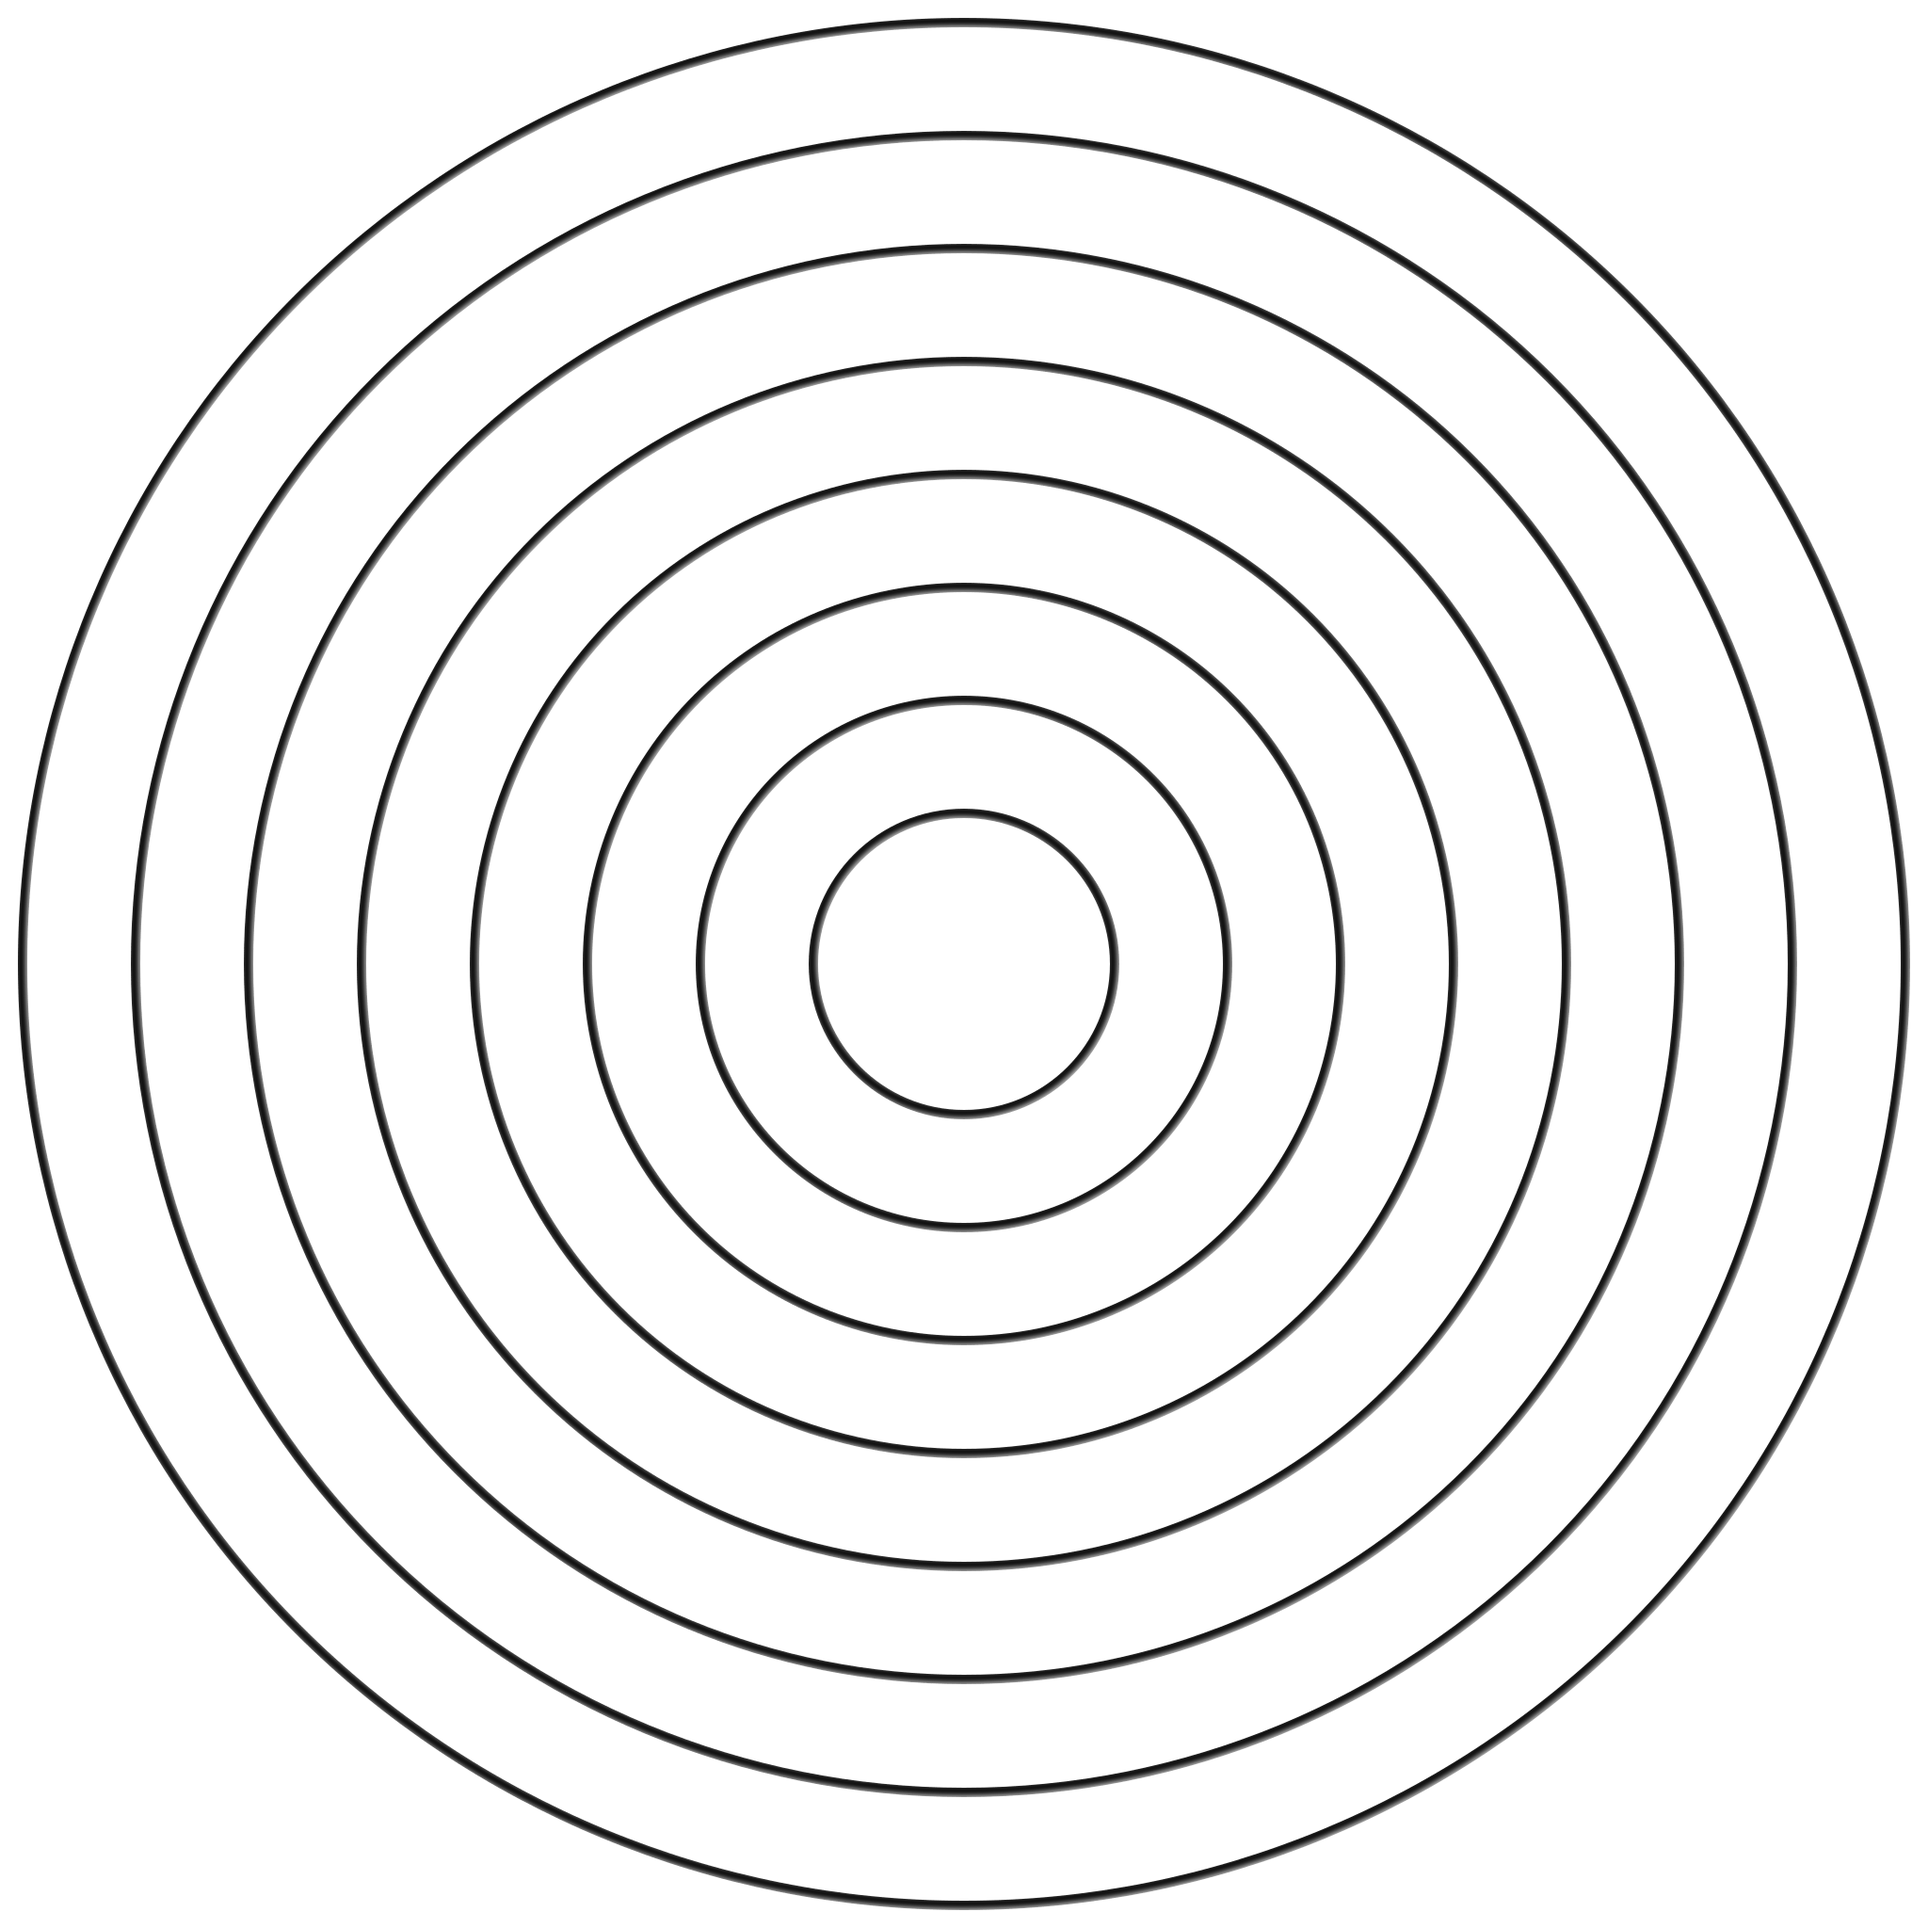
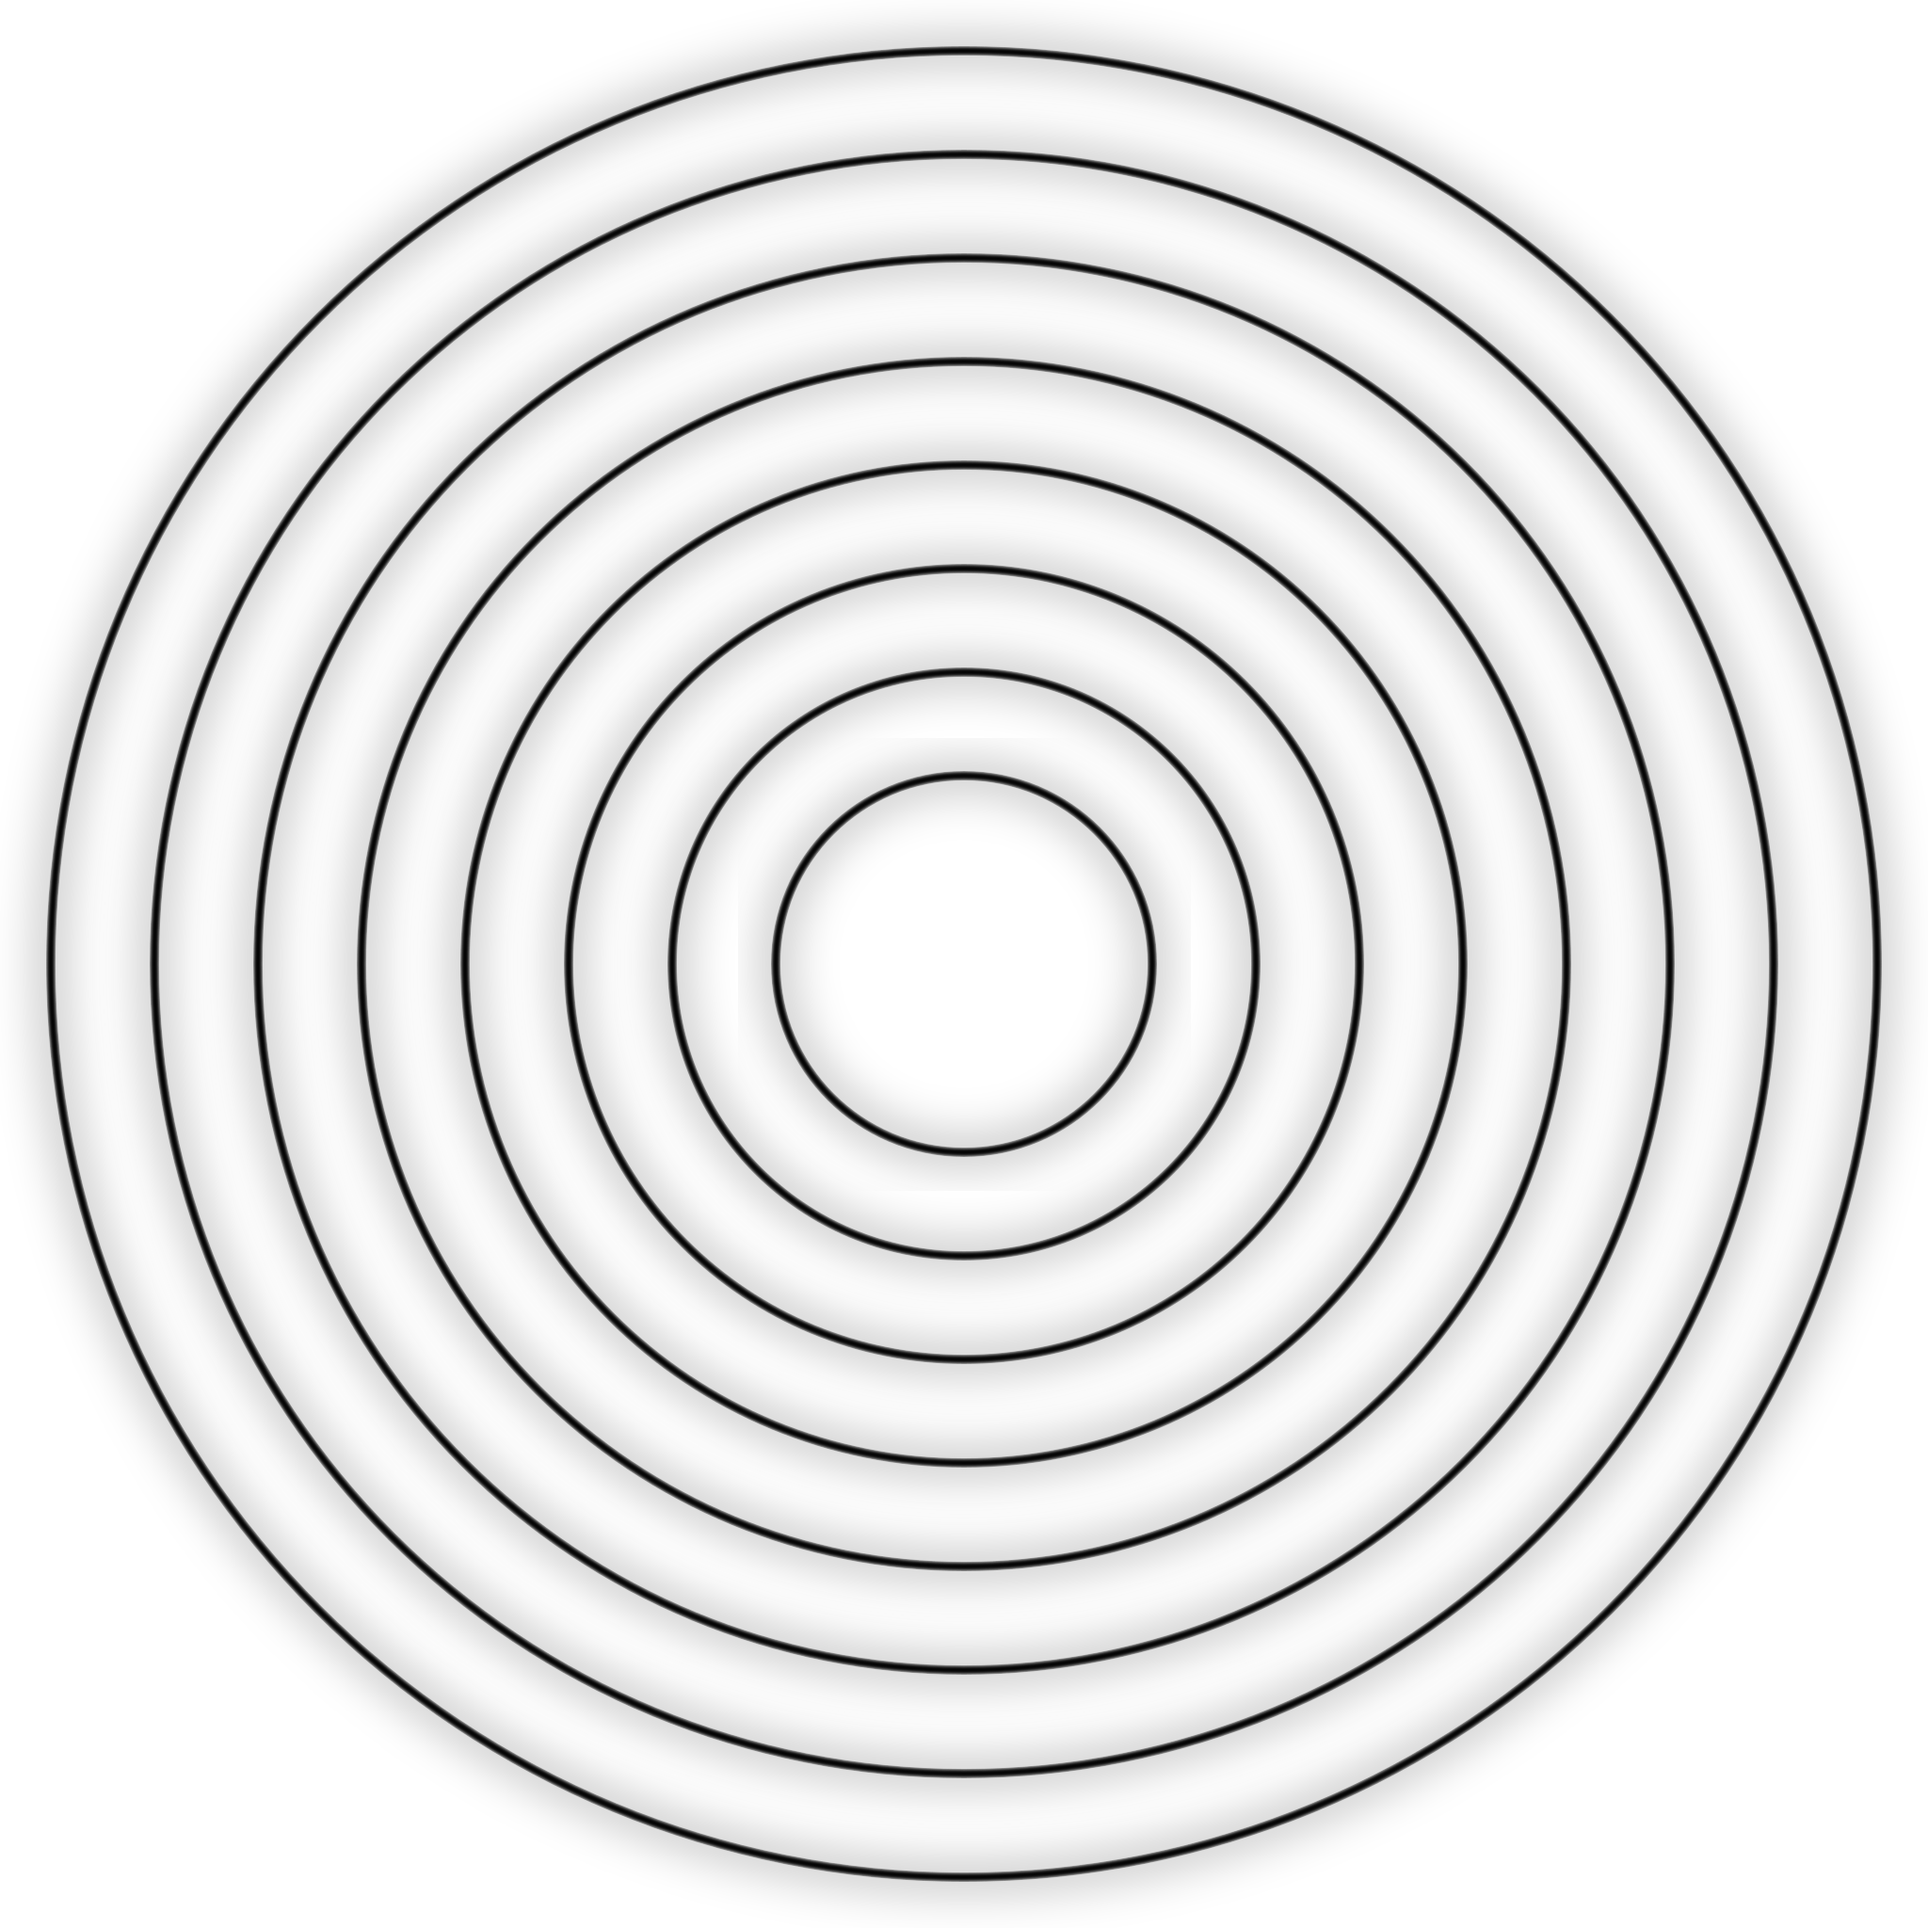
Add the sun

Changed region(s): [[0.0, 0.0, 1.0, 1.0]]

diff --git a/lib/window.cpp b/lib/window.cpp
@@ -4,8 +4,9 @@
 #include <SDL2/SDL.h>
 #include <SDL2/SDL_image.h>
 
-#include "solar-system-clock/orbits.h"
 #include "solar-system-clock/starfield.h"
+#include "solar-system-clock/orbits.h"
+#include "solar-system-clock/sun.h"
 
 #include "solar-system-clock/window.h"
 
@@ -65,6 +66,7 @@ Window::Window(int width, int height) {
 
     m_starfield = new Starfield(m_renderer);
     m_orbits = new Orbits(m_renderer);
+    m_sun = new Sun(m_renderer);
 
     resize(width, height);
 }
@@ -72,6 +74,7 @@ Window::Window(int width, int height) {
 Window::~Window() {
     delete m_starfield;
     delete m_orbits;
+    delete m_sun;
 
     SDL_DestroyRenderer(m_renderer);
     SDL_DestroyWindow(m_window);
@@ -80,6 +83,7 @@ Window::~Window() {
 void Window::resize(int width, int height) {
     m_starfield->resize(width, height);
     m_orbits->resize(width, height);
+    m_sun->resize(width, height);
 }
 
 void Window::mainloop() {
@@ -115,6 +119,7 @@ void Window::mainloop() {
             double dt_seconds = dt / 1000.0;
 
             m_starfield->update(dt_seconds);
+            m_sun->update(dt_seconds);
 
             accumulator -= dt;
             t += dt;
@@ -122,6 +127,7 @@ void Window::mainloop() {
 
         m_starfield->draw();
         m_orbits->draw();
+        m_sun->draw();
 
 		SDL_RenderPresent(m_renderer);
 	}

diff --git a/lib/sun.cpp b/lib/sun.cpp
@@ -1,0 +1,33 @@
+#include <algorithm>
+#include <iostream>
+
+#include <SDL2/SDL.h>
+
+#include "solar-system-clock/texture.h"
+
+#include "solar-system-clock/sun.h"
+
+using namespace solarsystemclock;
+
+Sun::Sun(SDL_Renderer *renderer) : m_renderer(renderer) {
+    m_texture = new Texture(renderer, "images/sun.png");
+}
+
+Sun::~Sun() {
+    delete m_texture;
+}
+
+void Sun::resize(int width, int height) {
+    m_size = std::min(width, height) * 0.08;
+
+    m_cx = width / 2;
+    m_cy = height / 2;
+}
+
+void Sun::update(float dt) {
+
+}
+
+void Sun::draw() {
+    m_texture->draw(m_renderer, m_cx, m_cy, m_size, m_size, 255, 255, 255, 255);
+}

diff --git a/include/solar-system-clock/sun.h b/include/solar-system-clock/sun.h
@@ -1,0 +1,23 @@
+struct SDL_Renderer;
+
+namespace solarsystemclock {
+
+    class Texture;
+
+    class Sun {
+    public:
+        Sun(SDL_Renderer *renderer);
+        ~Sun();
+
+        void resize(int width, int height);
+        void update(float dt);
+        void draw();
+
+    private:
+        SDL_Renderer *m_renderer;
+        Texture *m_texture;
+
+        int m_size, m_cx, m_cy;
+    };
+
+}

diff --git a/include/solar-system-clock/window.h b/include/solar-system-clock/window.h
@@ -8,6 +8,7 @@ namespace solarsystemclock {
 
     class Starfield;
     class Orbits;
+    class Sun;
 
     class Window {
     public:
@@ -23,6 +24,7 @@ namespace solarsystemclock {
 
         Starfield *m_starfield;
         Orbits *m_orbits;
+        Sun *m_sun;
     };
 
 }
